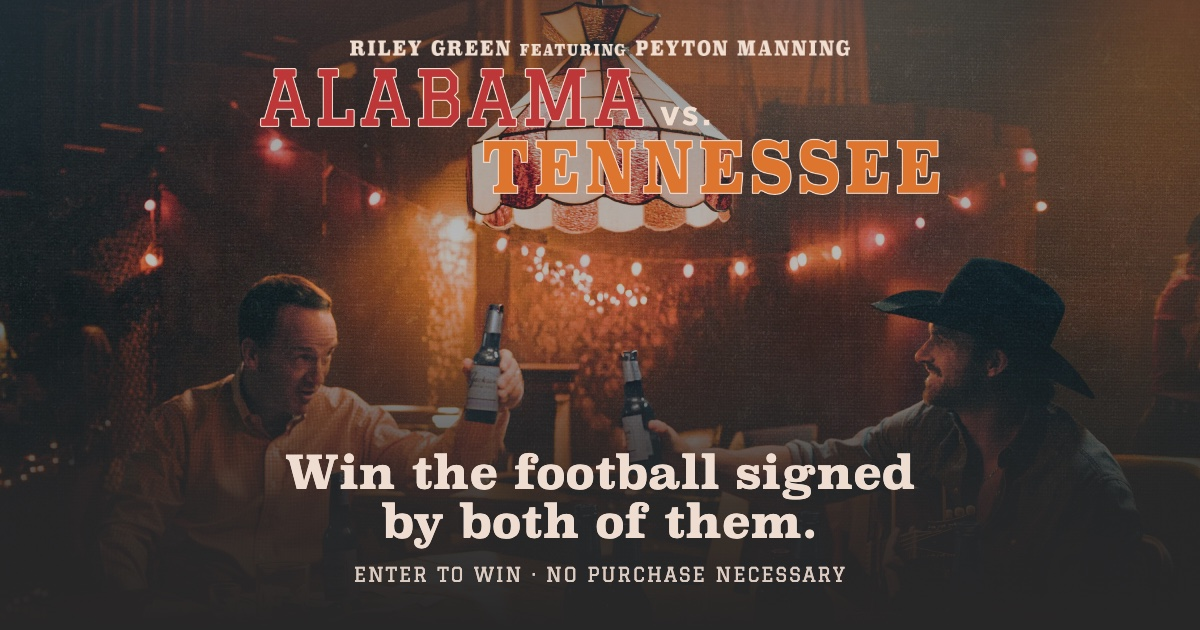
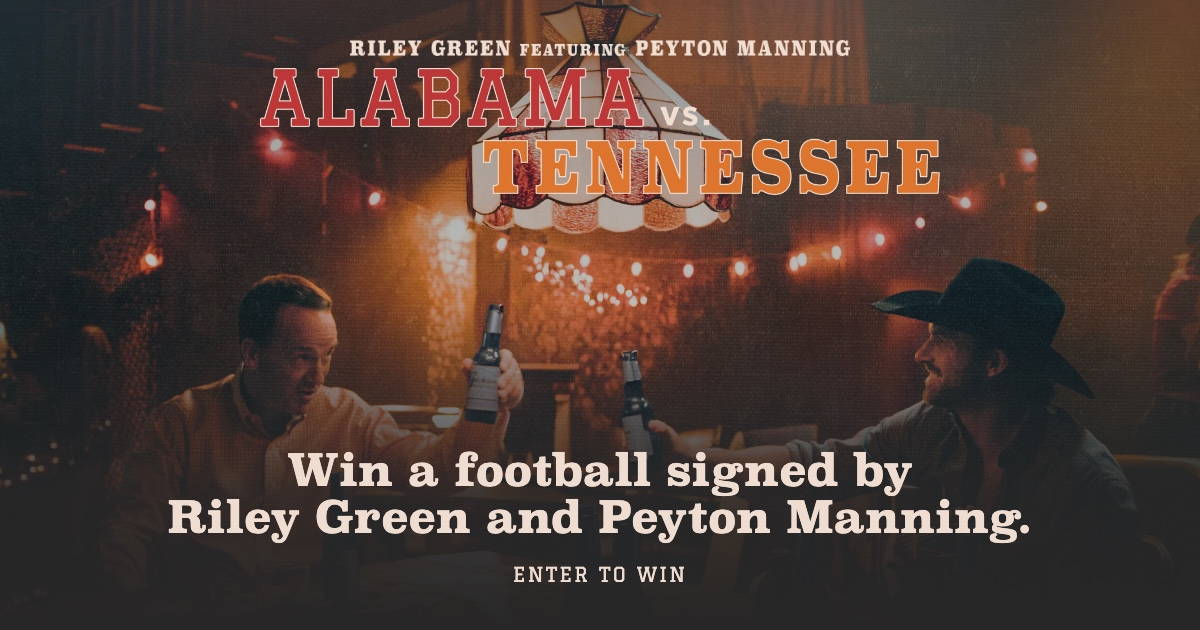
Giveaway: fail-closed password gate, new headline, updated share assets
- Password gate now runs in src/proxy.ts and fails closed: on by default with a
  built-in fallback password, redirects to /giveaways/access with a return path,
  and blocks the entry API. Turn off at launch with GIVEAWAY_GATE=off.
- Cookie consent and terms popups are suppressed on the gate page.
- Hero headline changed to name both signers; share card re-rendered to match.
- metadataBase set so social image URLs resolve to the production domain.

Changed region(s): [[0.1233, 0.6937, 0.8633, 0.9349]]

diff --git a/src/proxy.ts b/src/proxy.ts
@@ -1,31 +1,37 @@
 import { NextResponse, type NextRequest } from "next/server";
-import { ACCESS_COOKIE, computeAccessToken, safeEqual } from "@/lib/giveaways/access-token";
+import {
+  ACCESS_COOKIE,
+  GATE_PATH,
+  computeAccessToken,
+  gateEnabled,
+  gatePassword,
+  safeEqual,
+} from "@/lib/giveaways/access-token";
 
 // Password gate for the giveaway preview. Runs before any page renders, so an
-// unauthenticated request never receives the campaign content, not even in
-// the HTML payload. Unset GIVEAWAY_PASSWORD to open the pages up at launch.
+// unauthenticated request never receives the campaign content. The gate is on
+// by default and only comes off when GIVEAWAY_GATE=off is set at launch.
 export const config = {
   matcher: ["/giveaways/:path*", "/api/giveaway"],
 };
 
 export async function proxy(req: NextRequest) {
-  const password = process.env.GIVEAWAY_PASSWORD;
-  if (!password) return NextResponse.next();
+  if (!gateEnabled()) return NextResponse.next();
 
   const { pathname } = req.nextUrl;
-  if (pathname === "/giveaways/access") return NextResponse.next();
+  if (pathname === GATE_PATH) return NextResponse.next();
 
   const token = req.cookies.get(ACCESS_COOKIE)?.value ?? "";
-  if (safeEqual(token, await computeAccessToken(password))) return NextResponse.next();
+  if (safeEqual(token, await computeAccessToken(gatePassword()))) return NextResponse.next();
 
   if (pathname.startsWith("/api/")) {
     return NextResponse.json({ error: "Not authorized." }, { status: 401 });
   }
 
-  // Rewrite, not redirect: the URL stays put, so a refresh after logging in
-  // lands on the page the fan asked for.
+  // Redirect to the gate's own URL so site chrome can recognise it, carrying
+  // the requested path to return to after the password is accepted.
   const url = req.nextUrl.clone();
-  url.pathname = "/giveaways/access";
-  url.search = "";
-  return NextResponse.rewrite(url);
+  url.pathname = GATE_PATH;
+  url.search = pathname.startsWith("/giveaways/") && pathname !== GATE_PATH ? `?next=${encodeURIComponent(pathname)}` : "";
+  return NextResponse.redirect(url);
 }

diff --git a/src/lib/giveaways/access.ts b/src/lib/giveaways/access.ts
@@ -1,32 +1,24 @@
 import "server-only";
 import { cookies } from "next/headers";
-import { ACCESS_COOKIE, computeAccessToken, safeEqual } from "./access-token";
+import { ACCESS_COOKIE, computeAccessToken, gateEnabled, gatePassword, safeEqual } from "./access-token";
 
 // Server-side half of the password gate. The request-level check lives in
 // src/proxy.ts; these helpers back the login action and the API route.
 
 const COOKIE_MAX_AGE = 60 * 60 * 24 * 30; // 30 days
 
-export function isGateEnabled(): boolean {
-  return Boolean(process.env.GIVEAWAY_PASSWORD);
-}
-
 export function passwordMatches(input: string): boolean {
-  const password = process.env.GIVEAWAY_PASSWORD;
-  return Boolean(password) && safeEqual(input, password as string);
+  return safeEqual(input, gatePassword());
 }
 
 export async function hasGiveawayAccess(): Promise<boolean> {
-  const password = process.env.GIVEAWAY_PASSWORD;
-  if (!password) return true;
+  if (!gateEnabled()) return true;
   const token = (await cookies()).get(ACCESS_COOKIE)?.value ?? "";
-  return safeEqual(token, await computeAccessToken(password));
+  return safeEqual(token, await computeAccessToken(gatePassword()));
 }
 
 export async function grantGiveawayAccess(): Promise<void> {
-  const password = process.env.GIVEAWAY_PASSWORD;
-  if (!password) return;
-  (await cookies()).set(ACCESS_COOKIE, await computeAccessToken(password), {
+  (await cookies()).set(ACCESS_COOKIE, await computeAccessToken(gatePassword()), {
     httpOnly: true,
     secure: process.env.NODE_ENV === "production",
     sameSite: "lax",

diff --git a/src/components/giveaway/PasswordGate.tsx b/src/components/giveaway/PasswordGate.tsx
@@ -1,7 +1,7 @@
 "use client";
 
 import { useActionState, useEffect } from "react";
-import { usePathname, useRouter } from "next/navigation";
+import { useRouter, useSearchParams } from "next/navigation";
 import { CAMPAIGN } from "@/lib/giveaways/alabama-vs-tennessee";
 import { verifyGiveawayPassword, type GateState } from "@/app/giveaways/actions";
 
@@ -10,16 +10,15 @@ const initial: GateState = { ok: false, error: null };
 export default function PasswordGate() {
   const [state, formAction, pending] = useActionState(verifyGiveawayPassword, initial);
   const router = useRouter();
-  const pathname = usePathname();
+  const params = useSearchParams();
 
-  // The action sets the cookie. The proxy served this gate in place of the
-  // requested page, so a refresh re-runs it with the cookie present. If the
-  // fan came to /giveaways/access directly, send them on to the campaign.
+  // The action sets the cookie; then go to the page that was requested. Only
+  // giveaway paths are honoured so the parameter can never redirect off-site.
   useEffect(() => {
     if (!state.ok) return;
-    if (pathname === "/giveaways/access") router.replace(CAMPAIGN.path);
-    else router.refresh();
-  }, [state.ok, router, pathname]);
+    const next = params.get("next") || "";
+    router.replace(next.startsWith("/giveaways/") ? next : CAMPAIGN.path);
+  }, [state.ok, router, params]);
 
   return (
     <section className="min-h-[100svh] flex items-center justify-center px-6 py-20">

diff --git a/src/app/giveaways/access/page.tsx b/src/app/giveaways/access/page.tsx
@@ -1,4 +1,5 @@
 import type { Metadata } from "next";
+import { Suspense } from "react";
 import PasswordGate from "@/components/giveaway/PasswordGate";
 import { CAMPAIGN } from "@/lib/giveaways/alabama-vs-tennessee";
 
@@ -20,13 +21,15 @@ export const metadata: Metadata = {
   twitter: { card: "summary_large_image", images: [CAMPAIGN.images.og] },
 };
 
-// Served in place of any giveaway route when the access cookie is missing
-// (see src/proxy.ts). Also reachable directly at /giveaways/access.
+// The proxy (src/proxy.ts) redirects any giveaway route here when the access
+// cookie is missing, with ?next= pointing back to the requested page.
 export default function GiveawayAccessPage() {
   return (
     <div className="gv">
       <link rel="stylesheet" href="https://use.typekit.net/yoe5szg.css" precedence="default" />
-      <PasswordGate />
+      <Suspense fallback={null}>
+        <PasswordGate />
+      </Suspense>
     </div>
   );
 }

diff --git a/src/components/shared/HideOnGiveaways.tsx b/src/components/shared/HideOnGiveaways.tsx
@@ -3,9 +3,18 @@
 import { usePathname } from "next/navigation";
 
 // Giveaway campaign pages are standalone landing pages. Site chrome passed
-// through here (currently the footer) is dropped on any /giveaways route.
-export default function HideOnGiveaways({ children }: { children: React.ReactNode }) {
-  const pathname = usePathname();
-  if (pathname?.startsWith("/giveaways")) return null;
+// through here is dropped on any /giveaways route (mode "all"), or only on the
+// password gate page (mode "gate") for popups that should wait until a fan is
+// actually on the campaign.
+export default function HideOnGiveaways({
+  children,
+  mode = "all",
+}: {
+  children: React.ReactNode;
+  mode?: "all" | "gate";
+}) {
+  const pathname = usePathname() ?? "";
+  const hide = mode === "gate" ? pathname === "/giveaways/access" : pathname.startsWith("/giveaways");
+  if (hide) return null;
   return <>{children}</>;
 }

diff --git a/src/lib/giveaways/access-token.ts b/src/lib/giveaways/access-token.ts
@@ -2,6 +2,20 @@
 // (request edge) and the server helpers. Uses Web Crypto so it runs anywhere.
 
 export const ACCESS_COOKIE = "gv_access";
+export const GATE_PATH = "/giveaways/access";
+
+// The gate is on unless GIVEAWAY_GATE is explicitly "off". The password comes
+// from GIVEAWAY_PASSWORD when set, otherwise this fallback, so a deploy that
+// forgets the variable is still locked rather than wide open.
+const FALLBACK_PASSWORD = "OHIOSTATE";
+
+export function gateEnabled(): boolean {
+  return process.env.GIVEAWAY_GATE !== "off";
+}
+
+export function gatePassword(): string {
+  return process.env.GIVEAWAY_PASSWORD || FALLBACK_PASSWORD;
+}
 
 export async function computeAccessToken(password: string): Promise<string> {
   const data = new TextEncoder().encode(`giveaway:${password}`);

diff --git a/src/app/layout.tsx b/src/app/layout.tsx
@@ -89,10 +89,12 @@ export default function RootLayout({
         </HideOnGiveaways>
         {/* Cookie consent banner. Shows once per new visitor, persisted in
             localStorage; injects nothing before consent is granted. */}
-        <CookieConsent />
-        {/* Arbitration / class-action notice, shown once right after the cookie
-            decision so it is never buried only in the footer. */}
-        <TermsGate />
+        <HideOnGiveaways mode="gate">
+          <CookieConsent />
+          {/* Arbitration / class-action notice, shown once right after the cookie
+              decision so it is never buried only in the footer. */}
+          <TermsGate />
+        </HideOnGiveaways>
       </body>
     </html>
   );

diff --git a/src/components/giveaway/GiveawayHero.tsx b/src/components/giveaway/GiveawayHero.tsx
@@ -102,8 +102,9 @@ export default function GiveawayHero() {
           />
         </div>
         <div className="w-full">
-          <h1 className="gv-head gv-rise-3 text-[28px] leading-[1.05] md:text-[48px] max-w-[720px] mx-auto">
-            Win the football signed by both of them.
+          <h1 className="gv-head gv-rise-3 text-[28px] leading-[1.05] md:text-[46px] max-w-[880px] mx-auto">
+            Win a football signed by
+            <br className="hidden md:block" /> Riley Green and Peyton Manning.
           </h1>
           <div className="gv-rise-3 mt-8 flex flex-col items-center gap-4">
             <EnterCta />
